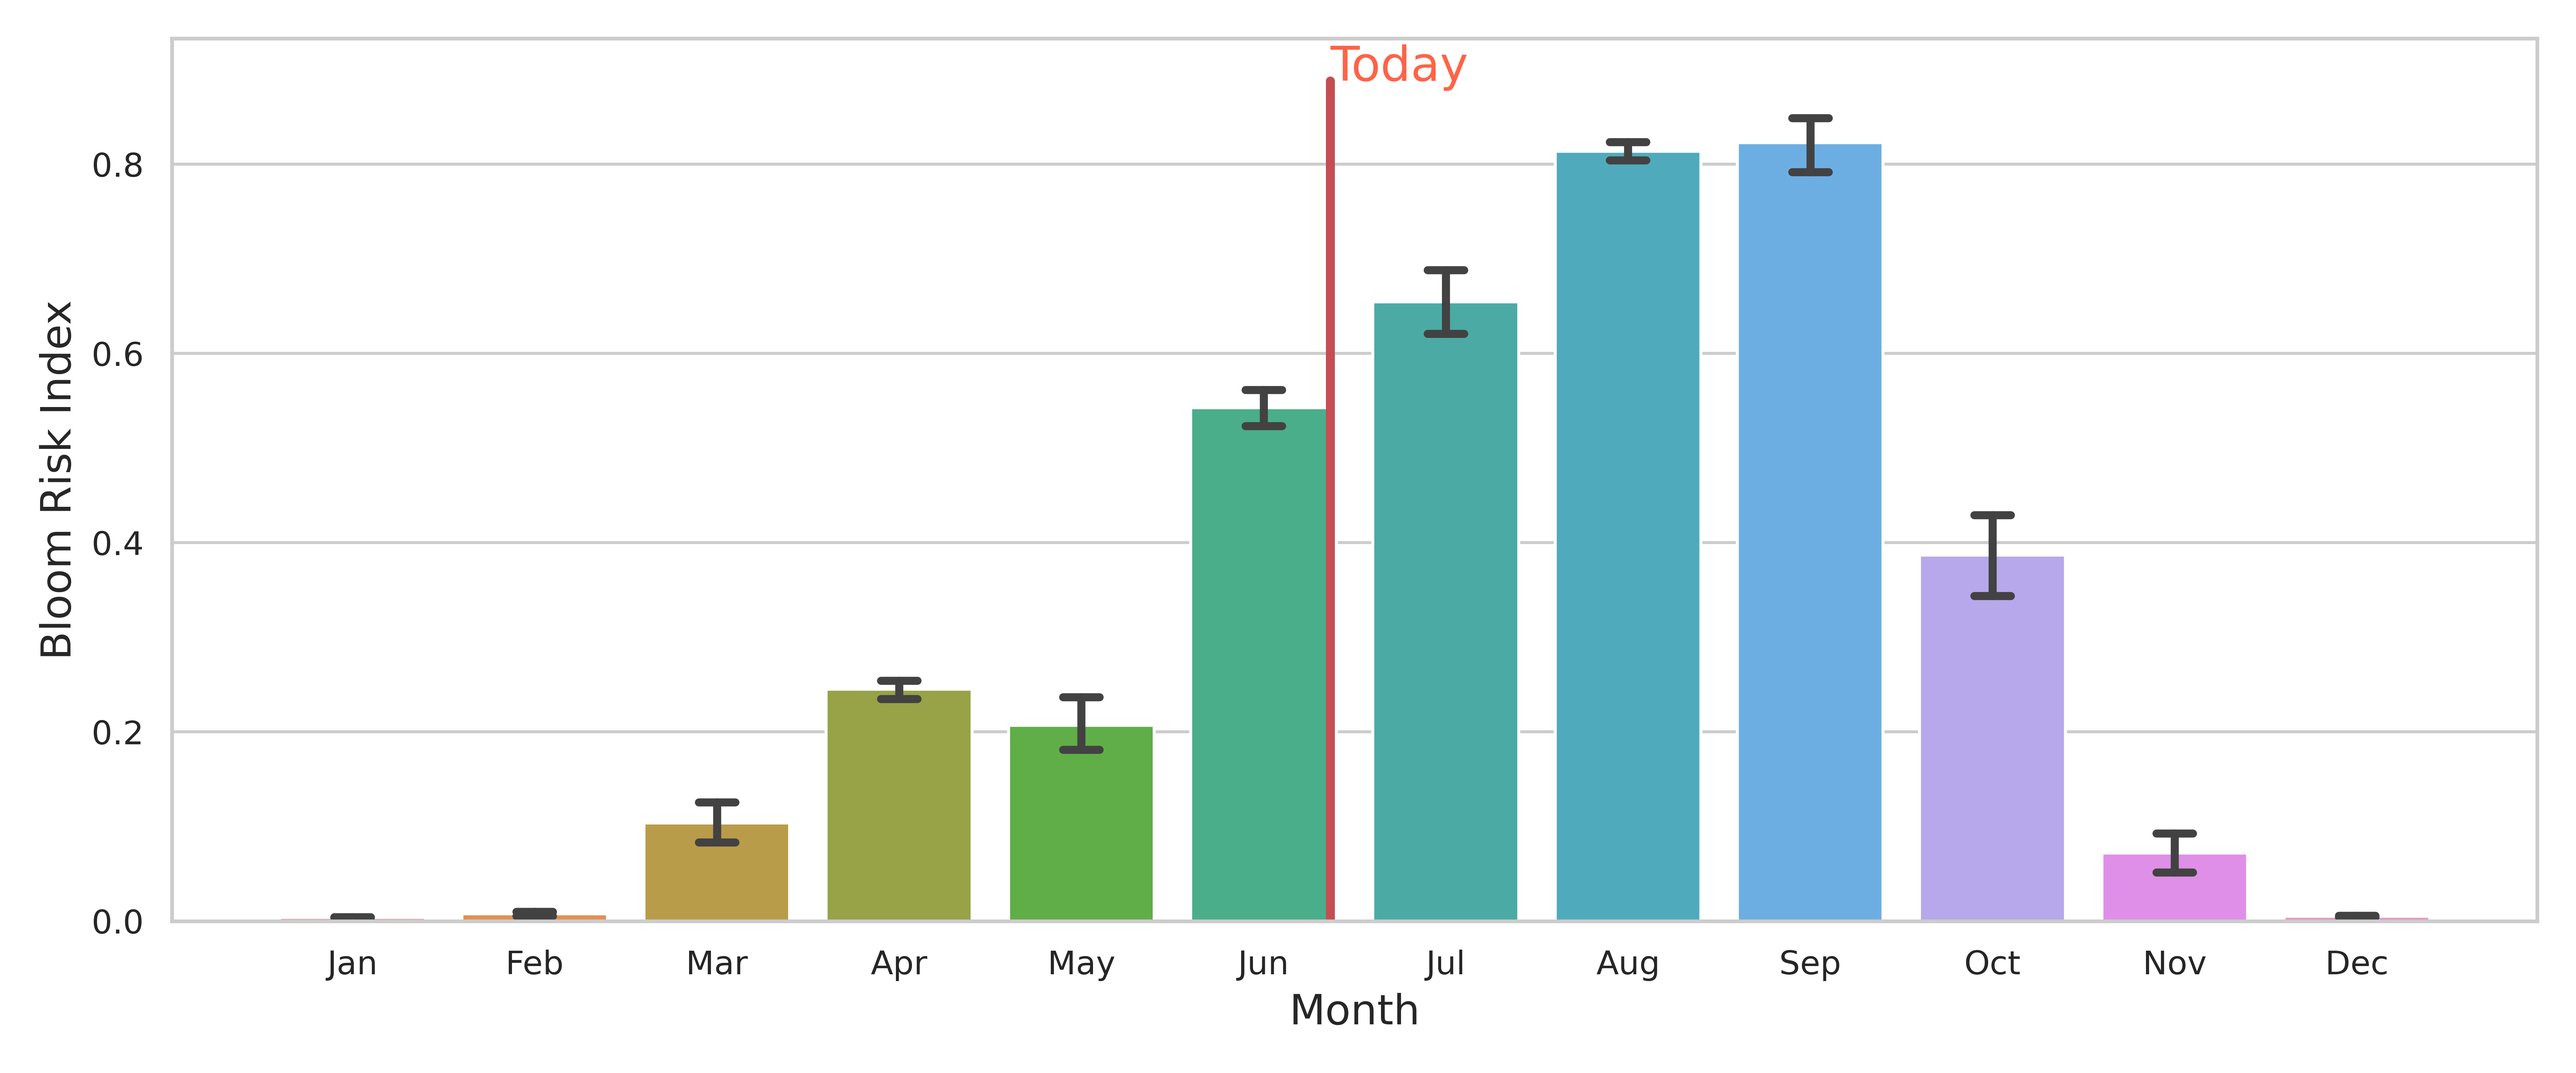
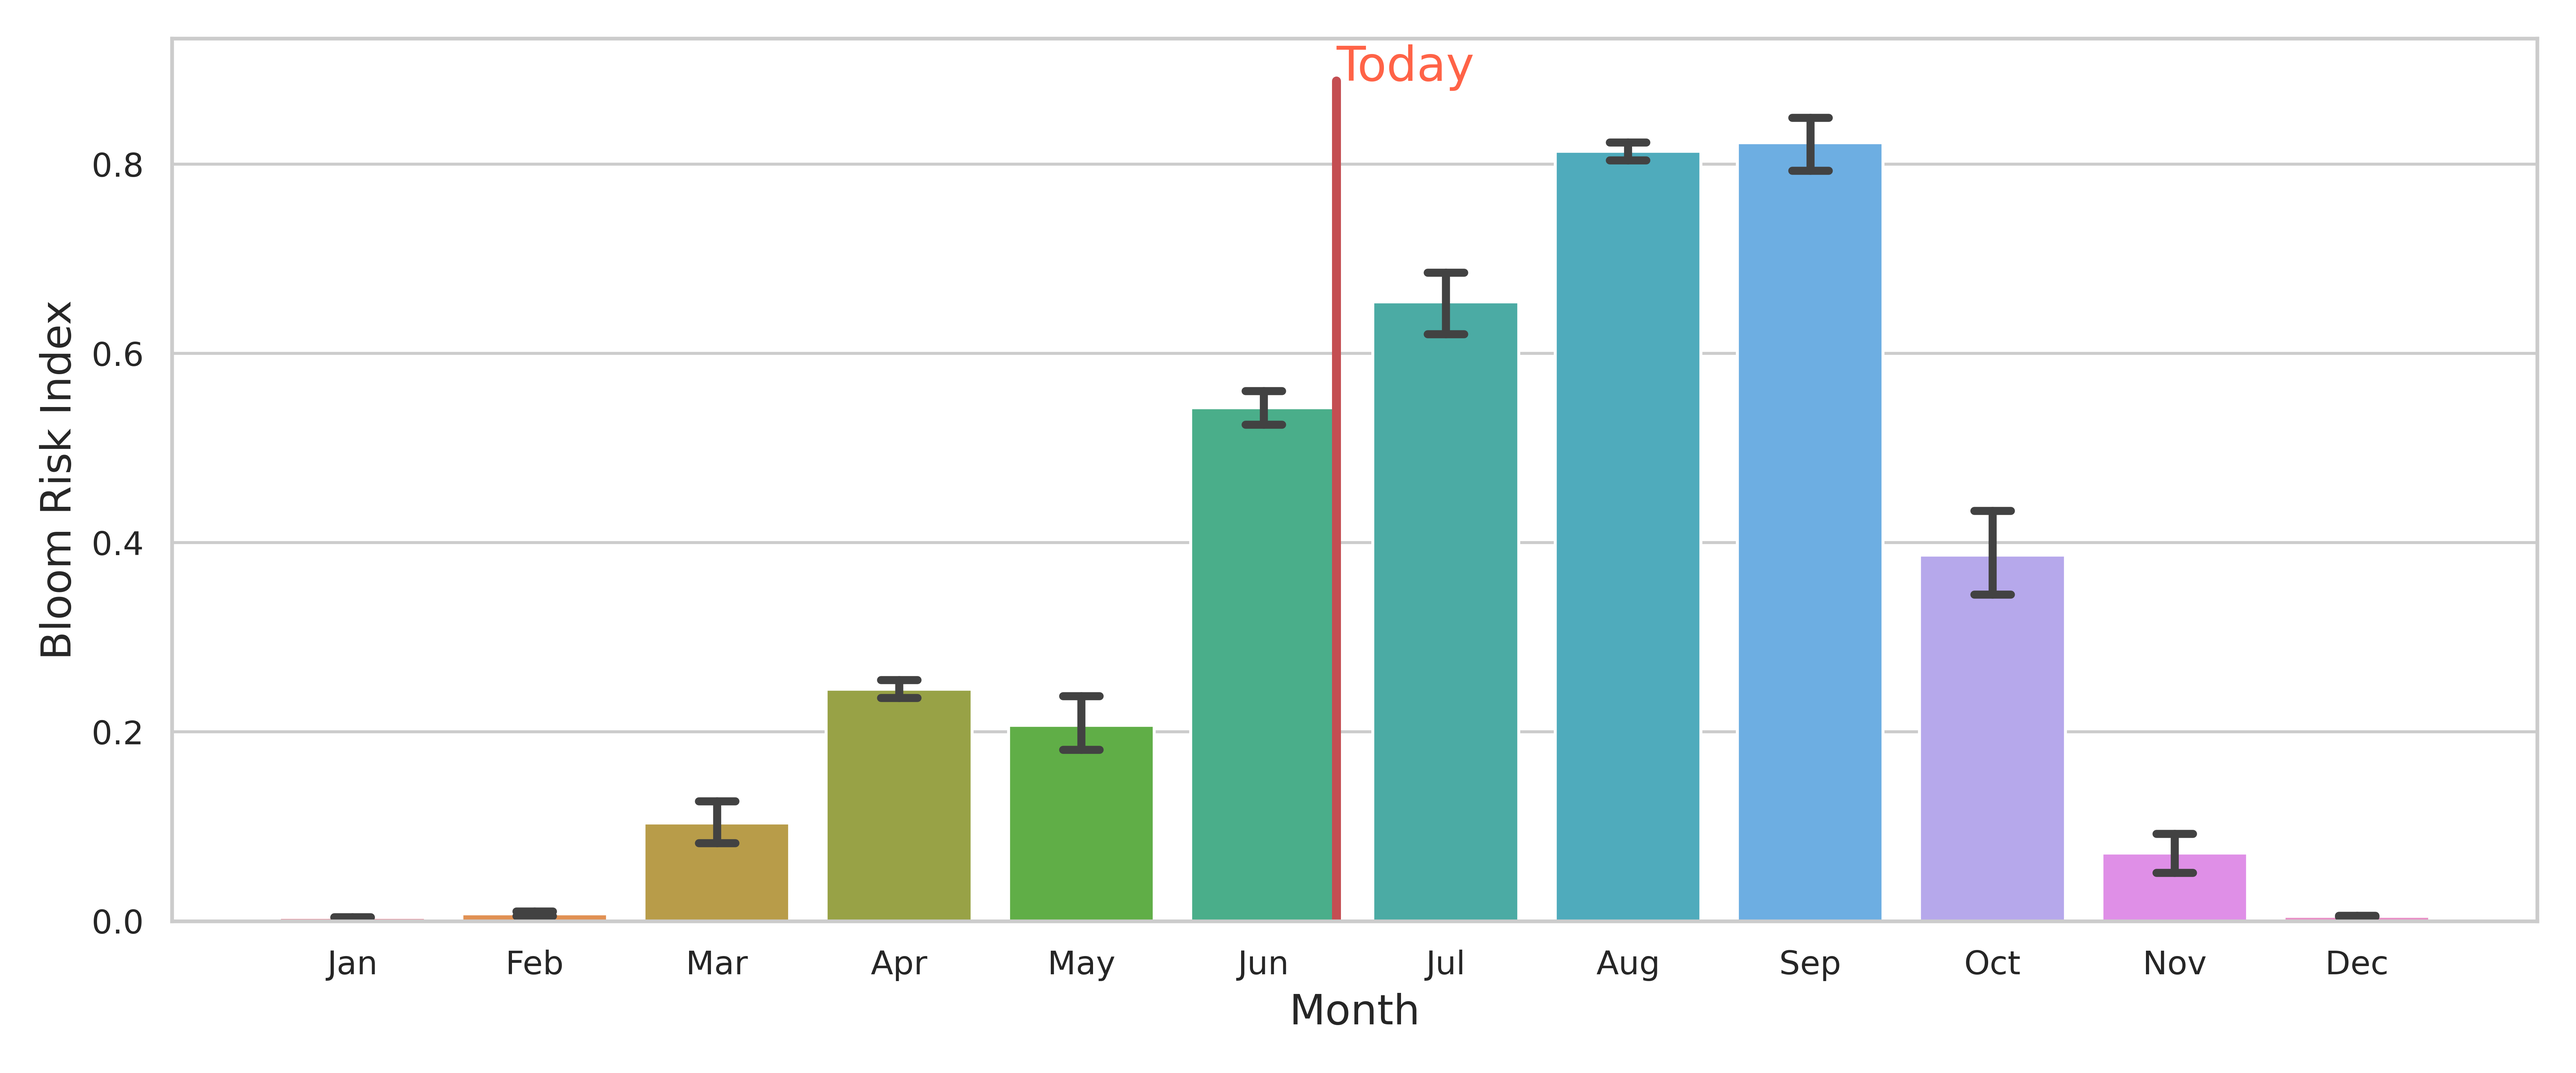
daily blog update

Changed region(s): [[0.5, 0.031, 0.5938, 0.837], [0.75, 0.465, 0.7812, 0.496]]

diff --git a/index.md b/index.md
@@ -1,5 +1,5 @@
 ---
-title: "Jun 11, 2024"
+title: "Jun 12, 2024"
 excerpt: "HAB update"
 image: /assets/images/woodcliff.jpg
 tags: 
@@ -11,34 +11,34 @@ Click here to see the live and interactive [Harmful Algal Bloom dashboard](https
 
 ## 7-day Look Ahead Bloom Forecast
 Below are pie charts describing the __probability of a cyanobacterial bloom__. The chart on the left describes the predictions from two weeks ago, and the one on the right describes the latest prediction, for the coming week. 
-![image-center]({{ site.url }}{{ site.baseurl }}/assets/images/20240611/Fig_prediction.png)
+![image-center]({{ site.url }}{{ site.baseurl }}/assets/images/20240612/Fig_prediction.png)
 __Probabilities of occurrence (%) of an algal bloom from two weeks ago (left) and for the next 7 days (right).__
 
 ## Hotspot Analysis - Chlorophyll-a
 This map shows you the latest estimates of __chlorophyll-a__ from the Sentinel 2a satellite. Note that the color scale is normalized to highlight the hotspots in the image. The colorscale does not provide an indication of the absolute amount of chlorophyll-a in the water and should be interpreted as an "index" of chlorophyll-a.
-![image-center]({{ site.url }}{{ site.baseurl }}/assets/images/20240611/Fig_chla.png){: .align-center}
+![image-center]({{ site.url }}{{ site.baseurl }}/assets/images/20240612/Fig_chla.png){: .align-center}
 <br clear="all" />
 __Latest chlorophyll-a map from the Sentinel 2a satelllite.__
 
 ## Hotspot Analysis - CyAN
 This map shows you the latest estimates of the concentration of cyanobacteria (cells/ml) from the EPA CyAN program.
-![image-center]({{ site.url }}{{ site.baseurl }}/assets/images/20240611/Fig_cyan.png){: .align-center}
+![image-center]({{ site.url }}{{ site.baseurl }}/assets/images/20240612/Fig_cyan.png){: .align-center}
 <br clear="all" />
 __Latest CyAN map from the EPA.__
 
 ## Where we are in the season
 This plot shows the __historical expectation for HAB risk__ over the year. Use this chart to see where we are in the season (identified by the vertical red line). 
-![image-center]({{ site.url }}{{ site.baseurl }}/assets/images/20240611/Fig_climatology.png){: .     align-center}
+![image-center]({{ site.url }}{{ site.baseurl }}/assets/images/20240612/Fig_climatology.png){: .     align-center}
 __Harmful algal bloom risk over the year__.
 
 ## How rainy has it been? 
 We know that in general certain weather conditions promote the likelihood of HABs. Check this chart to see 
 how __wet__ it is, relative to past years. This is simply adding up each day's rainfall, for each year. If the red line is below the orange line, then this year is dryer than average.
-![image-center]({{ site.url }}{{ site.baseurl }}/assets/images/20240611/Fig_precip_cumsum.png){: .     align-center}
+![image-center]({{ site.url }}{{ site.baseurl }}/assets/images/20240612/Fig_precip_cumsum.png){: .     align-center}
 __Precipitation at the lake compared to previous years__.
 
 ## How hot has it been? 
 We know that in general certain weather conditions promote the likelihood of HABs. Check this chart to see 
 how __hot__ it is, relative to past years. This is simply adding up each day's temperature, for each year. If the red line is above the orange line, this year is hotter than average.
-![image-center]({{ site.url }}{{ site.baseurl }}/assets/images/20240611/Fig_temp_cumsum.png){: .     align-center}
+![image-center]({{ site.url }}{{ site.baseurl }}/assets/images/20240612/Fig_temp_cumsum.png){: .     align-center}
 __Air temperature at the lake compared to previous years__.

diff --git a/_posts/2024-06-12-blog063.md b/_posts/2024-06-12-blog063.md
@@ -1,0 +1,44 @@
+---
+title: "Jun 12, 2024"
+excerpt: "HAB update"
+image: /assets/images/woodcliff.jpg
+tags: 
+  - hab
+  - prediction
+---
+
+Click here to see the live and interactive [Harmful Algal Bloom dashboard](https://woodcliff.clrwater.io/).
+
+## 7-day Look Ahead Bloom Forecast
+Below are pie charts describing the __probability of a cyanobacterial bloom__. The chart on the left describes the predictions from two weeks ago, and the one on the right describes the latest prediction, for the coming week. 
+![image-center]({{ site.url }}{{ site.baseurl }}/assets/images/20240612/Fig_prediction.png)
+__Probabilities of occurrence (%) of an algal bloom from two weeks ago (left) and for the next 7 days (right).__
+
+## Hotspot Analysis - Chlorophyll-a
+This map shows you the latest estimates of __chlorophyll-a__ from the Sentinel 2a satellite. Note that the color scale is normalized to highlight the hotspots in the image. The colorscale does not provide an indication of the absolute amount of chlorophyll-a in the water and should be interpreted as an "index" of chlorophyll-a.
+![image-center]({{ site.url }}{{ site.baseurl }}/assets/images/20240612/Fig_chla.png){: .align-center}
+<br clear="all" />
+__Latest chlorophyll-a map from the Sentinel 2a satelllite.__
+
+## Hotspot Analysis - CyAN
+This map shows you the latest estimates of the concentration of cyanobacteria (cells/ml) from the EPA CyAN program.
+![image-center]({{ site.url }}{{ site.baseurl }}/assets/images/20240612/Fig_cyan.png){: .align-center}
+<br clear="all" />
+__Latest CyAN map from the EPA.__
+
+## Where we are in the season
+This plot shows the __historical expectation for HAB risk__ over the year. Use this chart to see where we are in the season (identified by the vertical red line). 
+![image-center]({{ site.url }}{{ site.baseurl }}/assets/images/20240612/Fig_climatology.png){: .     align-center}
+__Harmful algal bloom risk over the year__.
+
+## How rainy has it been? 
+We know that in general certain weather conditions promote the likelihood of HABs. Check this chart to see 
+how __wet__ it is, relative to past years. This is simply adding up each day's rainfall, for each year. If the red line is below the orange line, then this year is dryer than average.
+![image-center]({{ site.url }}{{ site.baseurl }}/assets/images/20240612/Fig_precip_cumsum.png){: .     align-center}
+__Precipitation at the lake compared to previous years__.
+
+## How hot has it been? 
+We know that in general certain weather conditions promote the likelihood of HABs. Check this chart to see 
+how __hot__ it is, relative to past years. This is simply adding up each day's temperature, for each year. If the red line is above the orange line, this year is hotter than average.
+![image-center]({{ site.url }}{{ site.baseurl }}/assets/images/20240612/Fig_temp_cumsum.png){: .     align-center}
+__Air temperature at the lake compared to previous years__.
